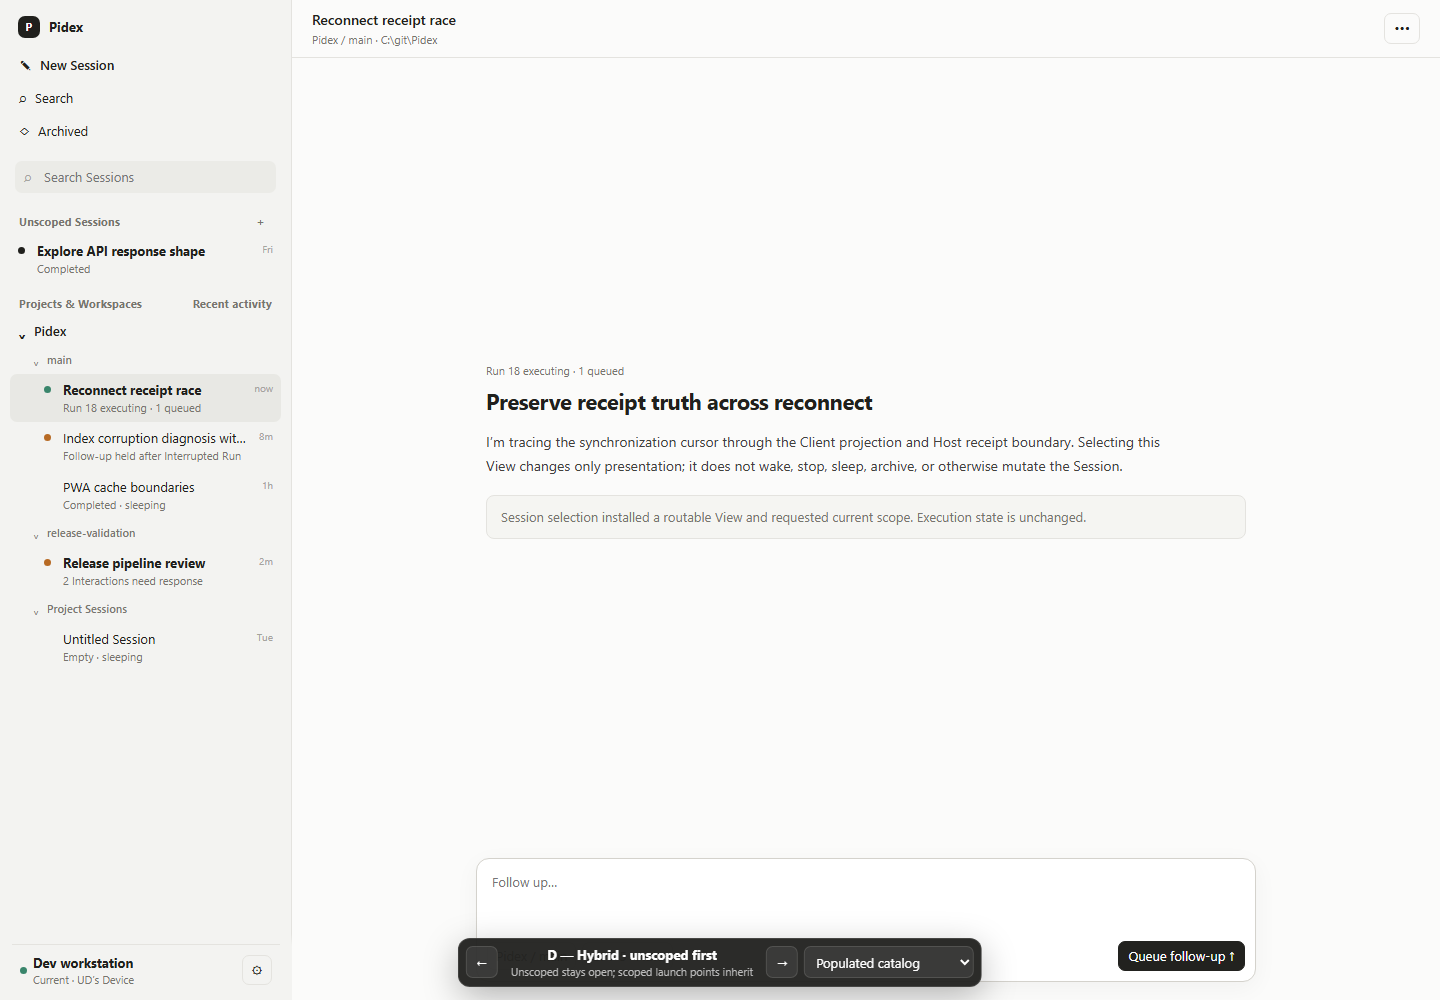
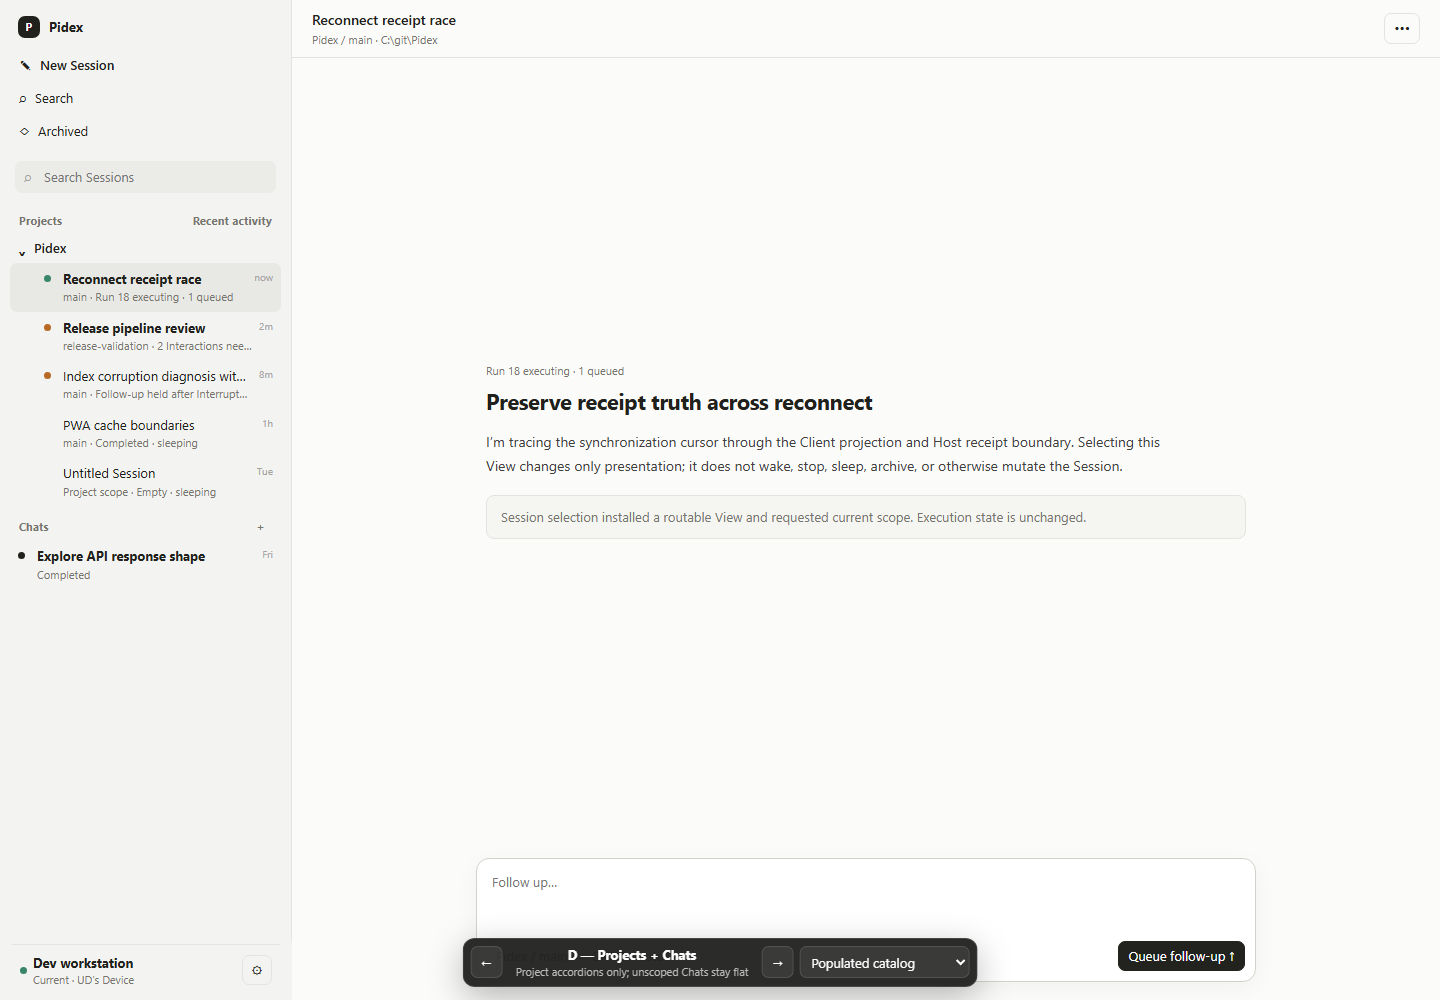
Simplify discovery to projects and chats

diff --git a/.scratch/pidex-product-and-architecture/prototypes/session-discovery-new-session/index.html b/.scratch/pidex-product-and-architecture/prototypes/session-discovery-new-session/index.html
@@ -177,7 +177,7 @@
         A: { name: "Nested scope rail", note: "Hierarchy stays in discovery" },
         B: { name: "Search-first catalog", note: "Scope travels with each result" },
         C: { name: "Workspace launch points", note: "Creation inherits its launch scope" },
-        D: { name: "Hybrid · unscoped first", note: "Unscoped stays open; scoped launch points inherit" },
+        D: { name: "Projects + Chats", note: "Project accordions only; unscoped Chats stay flat" },
       };
 
       const scenarios = {
@@ -331,18 +331,16 @@
         const items = currentSessions().filter(session => sessionMatches(session, query));
         const unscoped = items.filter(item => !item.project);
         const scoped = items.filter(item => item.project);
-        const groups = groupedSessions(scoped);
-        let catalog = unscoped.length ? `<div class="section-title"><span>Unscoped Sessions</span><button data-new data-scope="Unscoped" title="New unscoped Session">＋</button></div>${unscoped.map(item => sessionRow(item)).join("")}` : "";
-        let currentProject = "";
-        if (scoped.length) catalog += `<div class="section-title"><span>Projects & Workspaces</span><span>Recent activity</span></div>`;
-        for (const [key, grouped] of groups) {
-          const [project, workspace] = key.split("::");
-          if (project !== currentProject) {
-            catalog += `<button class="tree-label"><span>⌄</span><span>${project}</span><span class="tree-add" data-new data-scope="${project} / Project Sessions" title="New Project-scoped Session">＋</span></button>`;
-            currentProject = project;
-          }
-          catalog += `<button class="tree-label workspace-label"><span>⌄</span><span>${workspace}</span><span class="tree-add" data-new data-scope="${project} / ${workspace}" title="New Session in ${workspace}">＋</span></button>${grouped.map(item => sessionRow(item, "tree-session")).join("")}`;
+        const projects = new Map();
+        scoped.forEach(session => {
+          if (!projects.has(session.project)) projects.set(session.project, []);
+          projects.get(session.project).push(session);
+        });
+        let catalog = scoped.length ? `<div class="section-title"><span>Projects</span><span>Recent activity</span></div>` : "";
+        for (const [project, projectSessions] of projects) {
+          catalog += `<button class="tree-label"><span>⌄</span><span>${project}</span><span class="tree-add" data-new data-scope="${project} / Project Sessions" title="New Session in ${project}">＋</span></button>${projectSessions.map(item => sessionRow({ ...item, meta: `${item.workspace || "Project scope"} · ${item.meta}` }, "tree-session")).join("")}`;
         }
+        if (unscoped.length) catalog += `<div class="section-title"><span>Chats</span><button data-new data-scope="Unscoped" title="New unscoped Session">＋</button></div>${unscoped.map(item => sessionRow(item)).join("")}`;
         return `<aside class="rail">${commonNav()}${searchBox()}<div class="rail-scroll">${items.length ? catalog : noResults(query)}</div>${railFooter()}</aside>`;
       }
 

diff --git a/.scratch/pidex-product-and-architecture/prototypes/session-discovery-new-session/README.md b/.scratch/pidex-product-and-architecture/prototypes/session-discovery-new-session/README.md
@@ -5,7 +5,7 @@ Three read-only variants answer one question: how should the Codex-like shell he
 - **A — Nested scope rail:** Projects contain Workspaces and their Sessions; New Session is a centered Composer with scope controls inside it.
 - **B — Search-first catalog:** Sessions form one recency list with scope breadcrumbs and persistent facets; New Session gives scope selection equal weight with the Composer.
 - **C — Workspace launch points:** the rail is a compact Project/Workspace tree with contextual create buttons; New Session inherits the launch scope and keeps it visible above the Composer.
-- **D — Hybrid, unscoped first:** unscoped Sessions stay expanded at the top; nested Project/Workspace groups retain contextual create buttons and inherited scope.
+- **D — Projects + Chats:** only Projects are accordions; scoped Sessions sit directly beneath them with Workspace as row metadata, and flat unscoped Chats follow below Projects.
 
 The floating bar switches variants with `←` and `→` or `?variant=A|B|C`. Its scenario menu covers populated discovery, search matches and no results, an empty catalog, archived discovery, New Session, draft failure, capability absence, command failures, uncertain transport, and stale offline state.
 
@@ -26,4 +26,4 @@ This is a throwaway prototype. Session selection and all create actions are loca
 | A — Nested scope rail | [Discovery](screenshots/A-discovery.png) | [New Session](screenshots/A-new-session.png) |
 | B — Search-first catalog | [Discovery](screenshots/B-discovery.png) | [New Session](screenshots/B-new-session.png) |
 | C — Workspace launch points | [Discovery](screenshots/C-discovery.png) | [New Session](screenshots/C-new-session.png) |
-| D — Hybrid, unscoped first | [Discovery](screenshots/D-discovery.png) | [New Session](screenshots/D-new-session.png) |
+| D — Projects + Chats | [Discovery](screenshots/D-discovery.png) | [New Session](screenshots/D-new-session.png) |